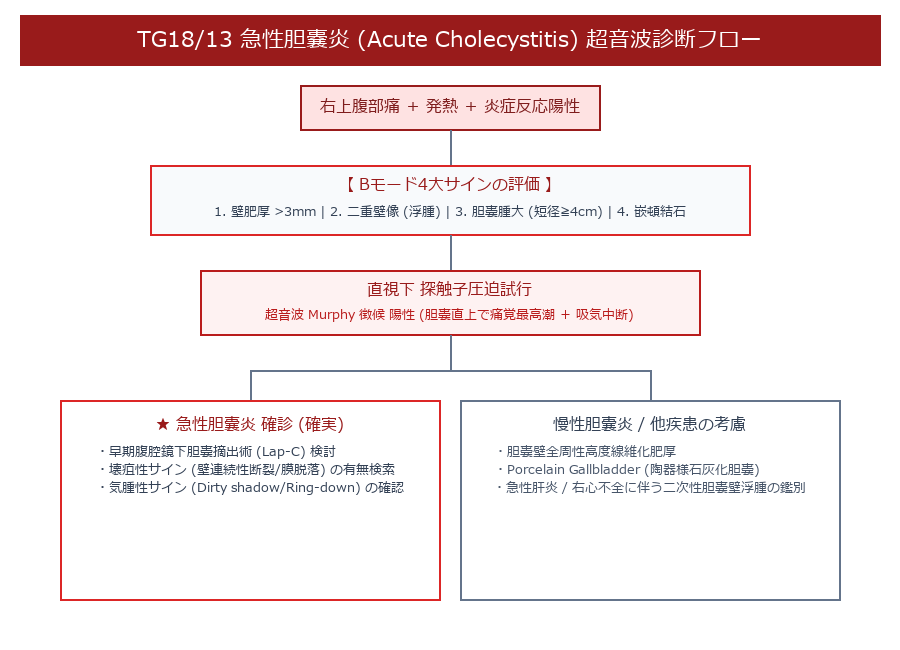
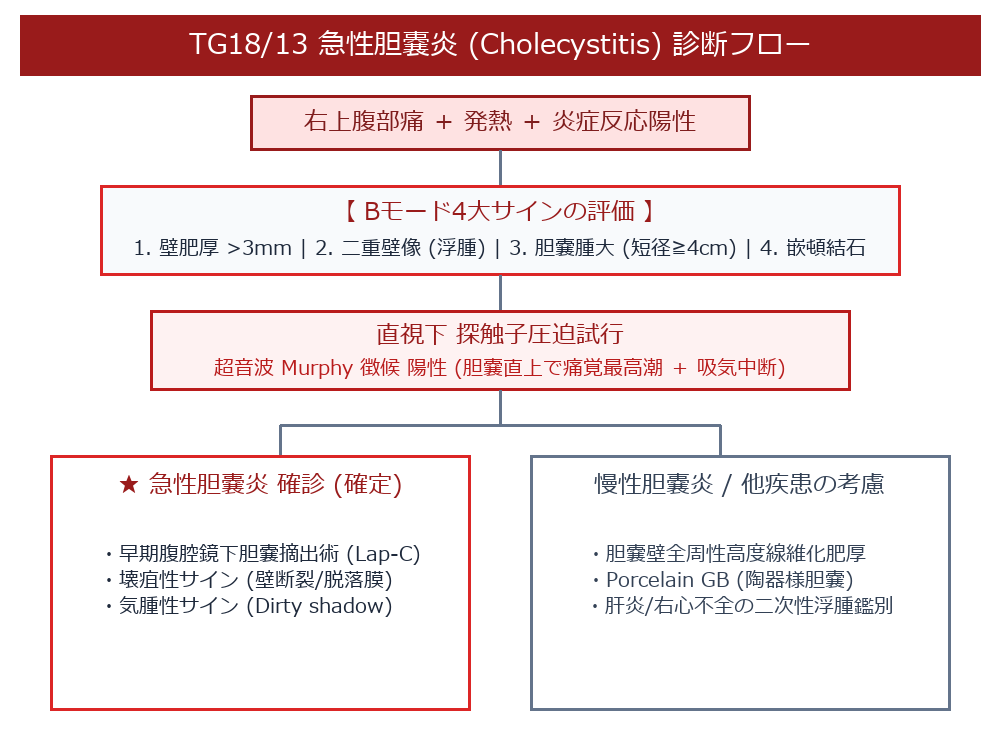
Enlarge all text font sizes (1.5x-2.0x) and enhance contrast in all flowchart PNG images for super readability

diff --git a/generate_large_text_flowcharts.py b/generate_large_text_flowcharts.py
@@ -1,0 +1,206 @@
+import os
+from PIL import Image, ImageDraw, ImageFont
+
+# Set up font loading
+font_large = None
+font_mid = None
+font_small = None
+
+font_paths = [
+    "C:/Windows/Fonts/meiryo.ttc",
+    "C:/Windows/Fonts/msgothic.ttc",
+    "C:/Windows/Fonts/yuanti.ttf",
+    "C:/Windows/Fonts/arial.ttf"
+]
+
+for fp in font_paths:
+    if os.path.exists(fp):
+        try:
+            font_title = ImageFont.truetype(fp, 28)
+            font_large = ImageFont.truetype(fp, 24)
+            font_mid = ImageFont.truetype(fp, 20)
+            font_small = ImageFont.truetype(fp, 17)
+            break
+        except Exception:
+            continue
+
+if font_title is None:
+    font_title = font_large = font_mid = font_small = ImageFont.load_default()
+
+img_dir = r"C:\Antigravity\超音波検査\腹部超音波検査_教科書\03_疾患別超音波所見\images"
+os.makedirs(img_dir, exist_ok=True)
+
+# 1. Pancreatic Mass Classification (Large Text Version)
+def make_panc_mass_large():
+    w, h = 1000, 950
+    img = Image.new("RGB", (w, h), (255, 255, 255))
+    draw = ImageDraw.Draw(img)
+    
+    # Header
+    draw.rectangle([(20, 15), (980, 75)], fill="#1e3a8a")
+    draw.text((500, 45), "膵腫瘤性病変 (Pancreatic Mass) 完全分類フロー", fill="#ffffff", font=font_title, anchor="mm")
+    
+    # Root
+    draw.rectangle([(300, 95), (700, 150)], fill="#f1f5f9", outline="#1e3a8a", width=3)
+    draw.text((500, 122), "膵腫瘤性病変 (Pancreatic Mass)", fill="#1e293b", font=font_large, anchor="mm")
+    
+    # Connectors
+    draw.line([(500, 150), (500, 175)], fill="#64748b", width=3)
+    draw.line([(260, 175), (740, 175)], fill="#64748b", width=3)
+    draw.line([(260, 175), (260, 200)], fill="#64748b", width=3)
+    draw.line([(740, 175), (740, 200)], fill="#64748b", width=3)
+    
+    # Category Headers
+    draw.rectangle([(50, 200), (470, 255)], fill="#dbeafe", outline="#2563eb", width=3)
+    draw.text((260, 227), "1. 固形腫瘤性病変 (Solid)", fill="#1e40af", font=font_large, anchor="mm")
+
+    draw.rectangle([(530, 200), (950, 255)], fill="#fce7f3", outline="#db2777", width=3)
+    draw.text((740, 227), "2. 嚢胞性腫瘤性病変 (Cystic)", fill="#9d174d", font=font_large, anchor="mm")
+
+    # Left Solid Section
+    draw.rectangle([(40, 275), (480, 920)], fill="#f8fafc", outline="#94a3b8", width=2)
+    draw.text((260, 305), "【 固形腫瘤 (Solid Lesions) 】", fill="#1e3a8a", font=font_large, anchor="mm")
+
+    solid_items = [
+        ("通常型膵がん (PDAC)", "浸潤性管がん (全体の約90%)\n低血流 / 主膵管高度拡張 (>3mm)"),
+        ("膵神経内分泌腫瘍 (PanNET)", "境界ナイフ様鮮明 / 多血性 (Hyper)\n血流極めて豊富 / 主膵管拡張なし"),
+        ("Solid Pseudopapillary (SPN)", "10〜30代若い女性に好発\n固形 ＋ 出血壊死性嚢胞の混在"),
+        ("自己免疫性膵炎 (AIP)", "腫瘤形成性膵炎 (膵がん酷似)\nCapsule-like Rim / 主膵管狭小化")
+    ]
+
+    y_start = 340
+    for title, desc in solid_items:
+        draw.rectangle([(60, y_start), (460, y_start + 125)], fill="#ffffff", outline="#3b82f6", width=2)
+        draw.text((260, y_start + 30), title, fill="#1e3a8a", font=font_large, anchor="mm")
+        draw.text((260, y_start + 80), desc, fill="#334155", font=font_small, anchor="mm")
+        y_start += 140
+
+    # Right Cystic Section
+    draw.rectangle([(520, 275), (960, 920)], fill="#f8fafc", outline="#94a3b8", width=2)
+    draw.text((740, 305), "【 嚢胞性腫瘤 (Cystic Lesions) 】", fill="#831843", font=font_large, anchor="mm")
+
+    cystic_items = [
+        ("IPMN (膵管内乳頭粘液性)", "主膵管連通あり / 葡萄の房状\n壁結節 ≧ 5mm で即手術検討"),
+        ("MCN (粘液性嚢胞腫瘍)", "中年女性・膵尾部 / 厚い被膜\n潜在的悪性 (原則全例手術)"),
+        ("SCN (漿液性嚢胞腫瘍)", "ハニカム像 / 中央星状石灰化\nほぼ100%良性 (経過観察)"),
+        ("仮性嚢胞 (Pseudocyst)", "膵炎既往 / 単房性無エコー\n非腫瘍性嚢胞")
+    ]
+
+    y_start = 340
+    for title, desc in cystic_items:
+        fill_bg = "#ffffff"
+        border_c = "#ec4899" if "IPMN" in title or "MCN" in title or "SCN" in title else "#6b7280"
+        draw.rectangle([(540, y_start), (940, y_start + 125)], fill=fill_bg, outline=border_c, width=2)
+        draw.text((740, y_start + 30), title, fill="#831843" if border_c != "#6b7280" else "#1f2937", font=font_large, anchor="mm")
+        draw.text((740, y_start + 80), desc, fill="#334155", font=font_small, anchor="mm")
+        y_start += 140
+
+    path = os.path.join(img_dir, "pancreatic_mass_classification.png")
+    img.save(path, quality=95)
+    print("Updated pancreatic_mass_classification.png (Large Font)")
+
+# 2. Cholecystitis TG18 Flow (Large Text)
+def make_chole_large():
+    w, h = 1000, 750
+    img = Image.new("RGB", (w, h), (255, 255, 255))
+    draw = ImageDraw.Draw(img)
+    
+    draw.rectangle([(20, 15), (980, 75)], fill="#991b1b")
+    draw.text((500, 45), "TG18/13 急性胆嚢炎 (Cholecystitis) 診断フロー", fill="#ffffff", font=font_title, anchor="mm")
+    
+    draw.rectangle([(250, 95), (750, 150)], fill="#fee2e2", outline="#991b1b", width=3)
+    draw.text((500, 122), "右上腹部痛 ＋ 発熱 ＋ 炎症反応陽性", fill="#7f1d1d", font=font_large, anchor="mm")
+    
+    draw.line([(500, 150), (500, 185)], fill="#64748b", width=3)
+    
+    draw.rectangle([(100, 185), (900, 275)], fill="#f8fafc", outline="#dc2626", width=3)
+    draw.text((500, 212), "【 Bモード4大サインの評価 】", fill="#991b1b", font=font_large, anchor="mm")
+    draw.text((500, 248), "1. 壁肥厚 >3mm | 2. 二重壁像 (浮腫) | 3. 胆嚢腫大 (短径≧4cm) | 4. 嵌頓結石", fill="#1e293b", font=font_mid, anchor="mm")
+    
+    draw.line([(500, 275), (500, 310)], fill="#64748b", width=3)
+    
+    draw.rectangle([(150, 310), (850, 390)], fill="#fef2f2", outline="#b91c1c", width=3)
+    draw.text((500, 335), "直視下 探触子圧迫試行", fill="#991b1b", font=font_large, anchor="mm")
+    draw.text((500, 368), "超音波 Murphy 徴候 陽性 (胆嚢直上で痛覚最高潮 ＋ 吸気中断)", fill="#b91c1c", font=font_mid, anchor="mm")
+    
+    draw.line([(500, 390), (500, 425)], fill="#64748b", width=3)
+    draw.line([(280, 425), (720, 425)], fill="#64748b", width=3)
+    draw.line([(280, 425), (280, 455)], fill="#64748b", width=3)
+    draw.line([(720, 425), (720, 455)], fill="#64748b", width=3)
+    
+    draw.rectangle([(50, 455), (470, 710)], fill="#ffffff", outline="#dc2626", width=3)
+    draw.text((260, 485), "★ 急性胆嚢炎 確診 (確定)", fill="#991b1b", font=font_large, anchor="mm")
+    draw.text((260, 580), "・早期腹腔鏡下胆嚢摘出術 (Lap-C)\n・壊疽性サイン (壁断裂/脱落膜)\n・気腫性サイン (Dirty shadow)", fill="#1e293b", font=font_mid, anchor="mm")
+    
+    draw.rectangle([(530, 455), (950, 710)], fill="#ffffff", outline="#64748b", width=3)
+    draw.text((740, 485), "慢性胆嚢炎 / 他疾患の考慮", fill="#334155", font=font_large, anchor="mm")
+    draw.text((740, 580), "・胆嚢壁全周性高度線維化肥厚\n・Porcelain GB (陶器様胆嚢)\n・肝炎/右心不全の二次性浮腫鑑別", fill="#334155", font=font_mid, anchor="mm")
+    
+    path = os.path.join(img_dir, "cholecystitis_flowchart.png")
+    img.save(path, quality=95)
+    print("Updated cholecystitis_flowchart.png (Large Font)")
+
+# 3. Hydronephrosis SFU Flow (Large Text)
+def make_hydro_large():
+    w, h = 1000, 750
+    img = Image.new("RGB", (w, h), (255, 255, 255))
+    draw = ImageDraw.Draw(img)
+    
+    draw.rectangle([(20, 15), (980, 75)], fill="#4c1d95")
+    draw.text((500, 45), "水腎症 (Hydronephrosis) SFU Grade 1～4 判定フロー", fill="#ffffff", font=font_title, anchor="mm")
+    
+    y = 100
+    grades = [
+        ("Grade 1 (軽度)", "腎盂のみの分離・軽度拡張 (Pelvis Expansion)\n腎杯拡張なし / 実質厚正常", "#f3e8ff", "#6b21a8"),
+        ("Grade 2 (中等度)", "腎盂拡張 ＋ 主要腎杯 (Major Calyces) 軽度拡張\n腎実質厚正常", "#e9d5ff", "#6b21a8"),
+        ("Grade 3 (高度)", "腎盂 ＋ 全腎杯 (Minor Calyces) 水疱状・クラゲ様拡張\n腎実質厚は保たれる", "#d8b4fe", "#581c87"),
+        ("Grade 4 (重症)", "全腎杯極度拡張 ＋ ★ 腎実質の菲薄化 (実質厚 < 10mm)\n腎機能不可逆的障害の危険信号", "#fee2e2", "#991b1b")
+    ]
+    
+    for title, desc, bg_c, text_c in grades:
+        draw.rectangle([(50, y), (950, y + 130)], fill=bg_c, outline=text_c, width=3)
+        draw.text((230, y + 65), title, fill=text_c, font=font_large, anchor="mm")
+        draw.text((610, y + 65), desc, fill="#1e293b" if text_c != "#991b1b" else "#7f1d1d", font=font_mid, anchor="mm")
+        y += 150
+        
+    path = os.path.join(img_dir, "hydronephrosis_sfu_flowchart.png")
+    img.save(path, quality=95)
+    print("Updated hydronephrosis_sfu_flowchart.png (Large Font)")
+
+# 4. GB Polyps 10mm Flow (Large Text)
+def make_gb_polyps_large():
+    w, h = 1000, 750
+    img = Image.new("RGB", (w, h), (255, 255, 255))
+    draw = ImageDraw.Draw(img)
+    
+    draw.rectangle([(20, 15), (980, 75)], fill="#065f46")
+    draw.text((500, 45), "胆嚢隆起性病変・ADM 超音波鑑別 10mm アルゴリズム", fill="#ffffff", font=font_title, anchor="mm")
+    
+    draw.rectangle([(280, 95), (720, 150)], fill="#ecfdf5", outline="#065f46", width=3)
+    draw.text((500, 122), "胆嚢腔内 隆起性病変 / 壁肥厚の検出", fill="#065f46", font=font_large, anchor="mm")
+    
+    draw.line([(500, 150), (500, 175)], fill="#64748b", width=3)
+    draw.line([(270, 175), (730, 175)], fill="#64748b", width=3)
+    draw.line([(270, 175), (270, 205)], fill="#64748b", width=3)
+    draw.line([(730, 175), (730, 205)], fill="#64748b", width=3)
+    
+    draw.rectangle([(50, 205), (470, 455)], fill="#f0fdf4", outline="#16a34a", width=3)
+    draw.text((260, 235), "【 病変径 < 10.0 mm (1cm未満) 】", fill="#15803d", font=font_large, anchor="mm")
+    draw.text((260, 340), "・コレステロールポリープ (90%以上)\n  (桑実像 Mulberry / 有茎性 / 微小点状高エコー)\n・超音波経過観察 (6〜12ヶ月毎)\n・急増傾向がないかチェック", fill="#166534", font=font_mid, anchor="mm")
+    
+    draw.rectangle([(530, 205), (950, 455)], fill="#fef2f2", outline="#dc2626", width=3)
+    draw.text((740, 235), "【 病変径 ≧ 10.0 mm (1cm以上) 】", fill="#991b1b", font=font_large, anchor="mm")
+    draw.text((740, 340), "・胆嚢がん (Carcinoma) / 腺腫疑い\n・広基性 (Broad-based) / 茎が太い像\n・壁層構造の断裂・局所浸潤像\n★ EUS (超音波内視鏡) ＆ 手術検討", fill="#991b1b", font=font_mid, anchor="mm")
+    
+    draw.rectangle([(50, 485), (950, 715)], fill="#eff6ff", outline="#2563eb", width=3)
+    draw.text((500, 515), "【 胆嚢腺筋腫症 (ADM: Adenomyomatosis) の鑑別 】", fill="#1e40af", font=font_large, anchor="mm")
+    draw.text((500, 615), "・Comet-tail Artifact (RAS内コレステロール結晶による彗星の尾様多重反射)\n・壁内無エコー像 (Anechoic Microcysts: 1〜3mmの小嚢胞)\n・3形態分類: 1. 底部型 (Fundal) | 2. 節状型 (Segmental) | 3. びまん型 (Diffuse)", fill="#1e3a8a", font=font_mid, anchor="mm")
+    
+    path = os.path.join(img_dir, "gb_polyps_adm_flowchart.png")
+    img.save(path, quality=95)
+    print("Updated gb_polyps_adm_flowchart.png (Large Font)")
+
+make_panc_mass_large()
+make_chole_large()
+make_hydro_large()
+make_gb_polyps_large()
